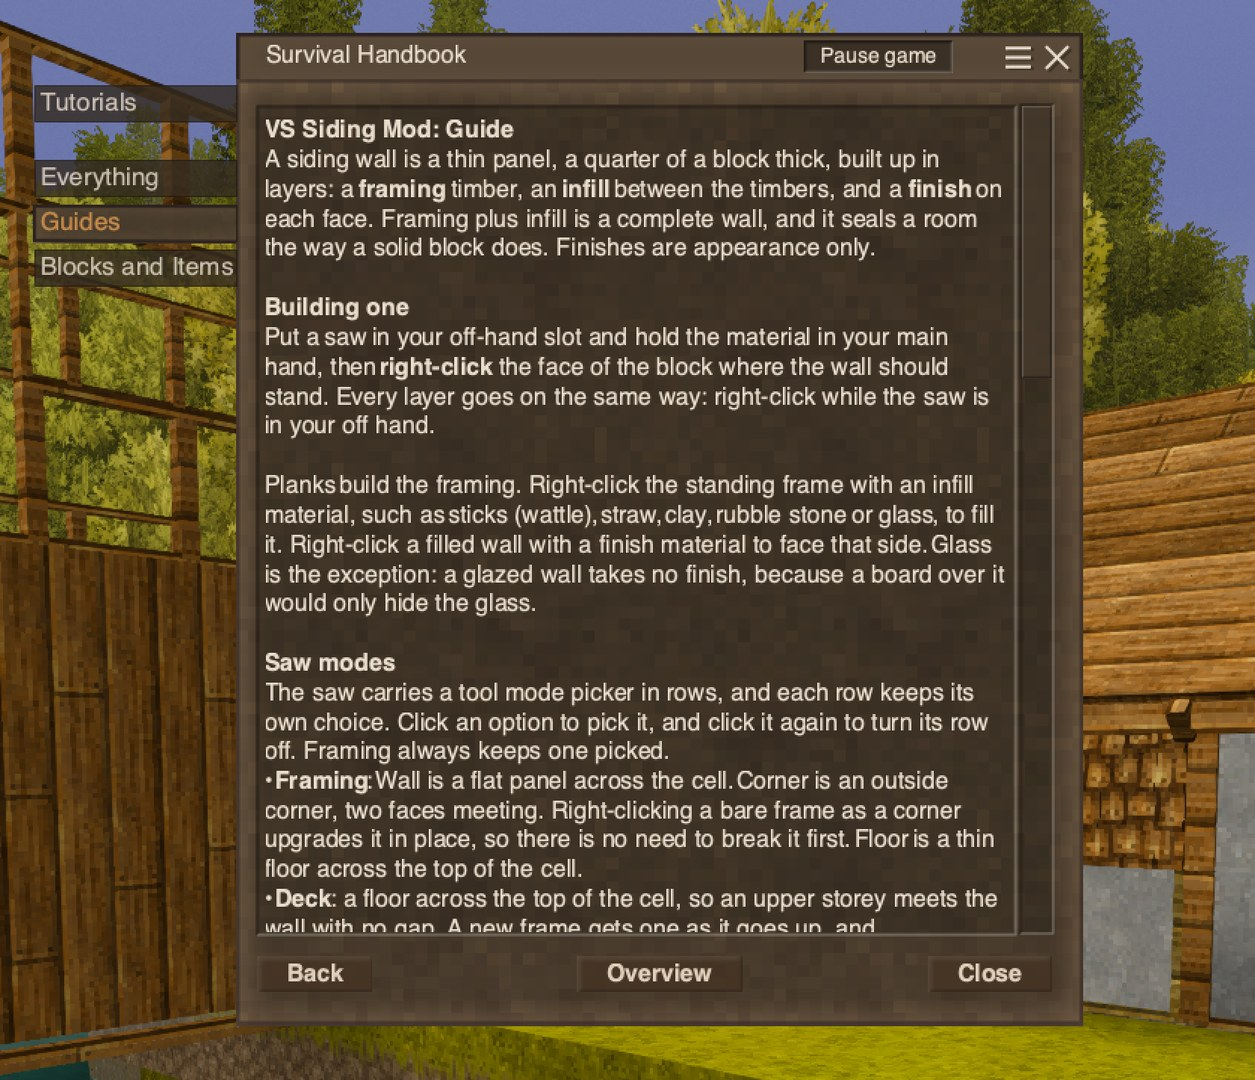
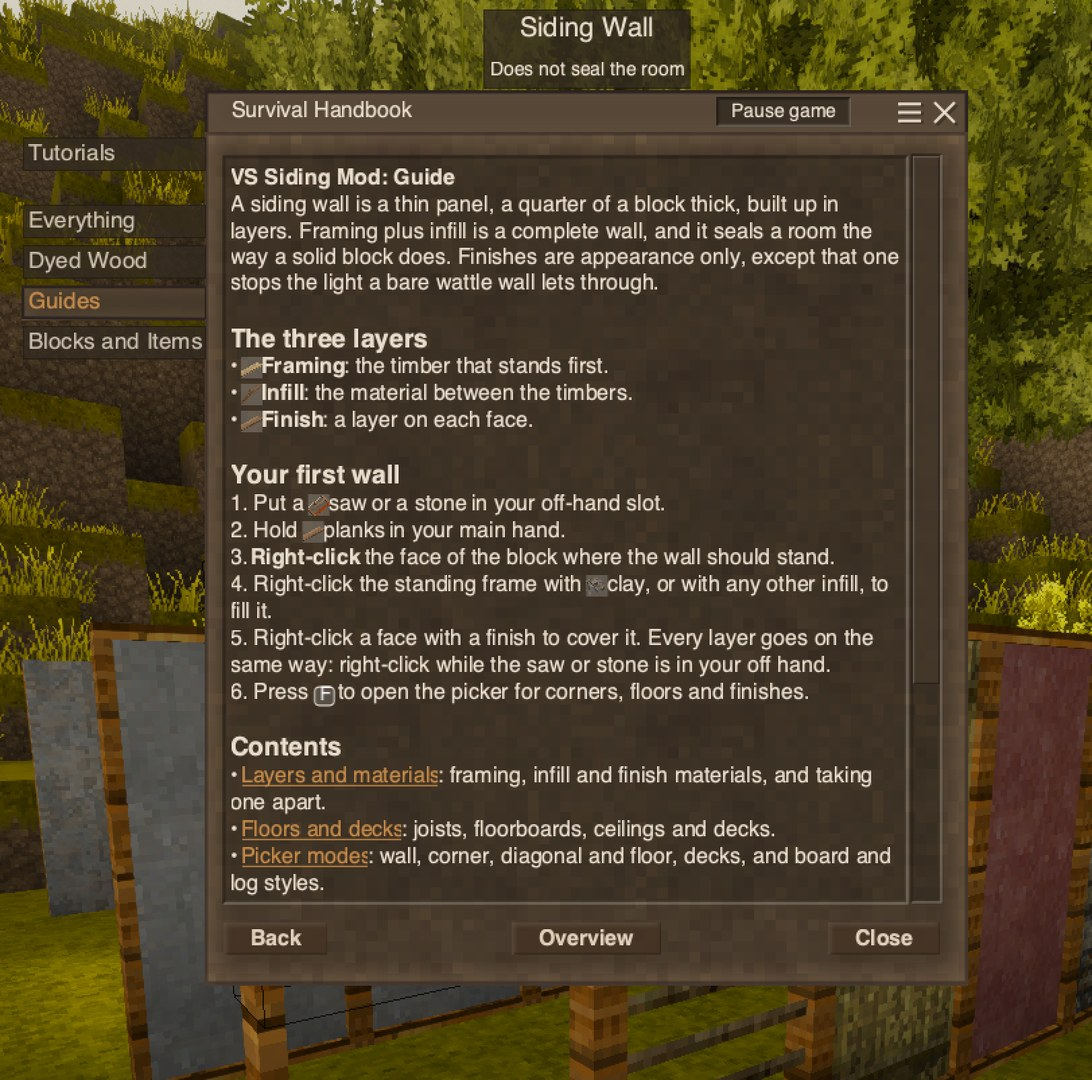
Release 1.4.0 (#122)

diff --git a/docs/moddb.html b/docs/moddb.html
@@ -8,7 +8,7 @@
         <div style="font-family: Impact, Haettenschweiler, 'Arial Narrow Bold', sans-serif; font-size: 44px; line-height: 1; letter-spacing: 2px; text-transform: uppercase;">VS Siding</div>
         <div style="font-family: Impact, Haettenschweiler, 'Arial Narrow Bold', sans-serif; font-size: 18px; letter-spacing: 3px; text-transform: uppercase; color: #5a3b17; margin-top: 6px;">Thin walls and floors, built in layers</div>
       </div>
-      <div style="background: #1d1b17; color: #f3c300; font-weight: bold; font-size: 13px; letter-spacing: 1px; padding: 8px 12px; line-height: 1.5; text-align: center;">SITE NOTICE<br><span style="color: #e9e4d8; font-weight: normal;">v1.3.0: floors are in</span><div style="margin-top: 6px; border-top: 1px solid #f3c300; padding-top: 6px; font-size: 11px; color: #e9e4d8; font-weight: normal;">DAYS SINCE LAST RELEASE: <span style="color: #f3c300; font-weight: bold; font-size: 16px;">0</span></div></div>
+      <div style="background: #1d1b17; color: #f3c300; font-weight: bold; font-size: 13px; letter-spacing: 1px; padding: 8px 12px; line-height: 1.5; text-align: center;">SITE NOTICE<br><span style="color: #e9e4d8; font-weight: normal;">v1.4.0: sticks and bones</span><div style="margin-top: 6px; border-top: 1px solid #f3c300; padding-top: 6px; font-size: 11px; color: #e9e4d8; font-weight: normal;">DAYS SINCE LAST RELEASE: <span style="color: #f3c300; font-weight: bold; font-size: 16px;">0</span></div></div>
     </div>
   </div>
 
@@ -34,7 +34,29 @@
   <div style="padding: 0 20px 22px; display: flex; flex-direction: column; gap: 10px;">
 
     <details open style="border: 3px solid #1d1b17; background: #f6f1e4;">
-      <summary style="cursor: pointer; background: #f3c300; padding: 11px 14px; font-family: Impact, Haettenschweiler, 'Arial Narrow Bold', sans-serif; font-size: 20px; letter-spacing: 2px; text-transform: uppercase;">Floors <span style="font-family: Verdana, Geneva, sans-serif; font-size: 11px; letter-spacing: 1px; background: #1d1b17; color: #f3c300; padding: 2px 6px; vertical-align: middle;">NEW</span></summary>
+      <summary style="cursor: pointer; background: #f3c300; padding: 11px 14px; font-family: Impact, Haettenschweiler, 'Arial Narrow Bold', sans-serif; font-size: 20px; letter-spacing: 2px; text-transform: uppercase;">Primitive builds <span style="font-family: Verdana, Geneva, sans-serif; font-size: 11px; letter-spacing: 1px; background: #1d1b17; color: #f3c300; padding: 2px 6px; vertical-align: middle;">NEW</span></summary>
+      <div style="padding: 14px; font-size: 14px; line-height: 1.6;">
+        <p style="margin: 0;">No saw yet? A stone in your off hand works from the first day, and it is never used up. Sticks build a frame, and so do bones. Both are drawn as lashed poles, floors and decks included.</p>
+        <ul style="margin: 10px 0 0; padding-left: 20px;">
+          <li>Sticks are also the wattle infill, so sneak to stack or extend a bare stick frame.</li>
+          <li>Fill a frame with pelt or cloth for a tent, or with packed earth or rammed earth for something that keeps a cellar cool.</li>
+          <li>A bone frame does not burn. The pelt on it still does.</li>
+        </ul>
+        <div style="display: flex; flex-wrap: wrap; gap: 12px; margin-top: 12px;">
+          <div style="flex: 1 1 260px; min-width: 0; background: #ffffff; padding: 8px 8px 28px; box-shadow: 0 3px 10px rgba(0,0,0,.2); position: relative;">
+            <img src="https://raw.githubusercontent.com/Graphight/VS-Siding/main/docs/screenshots/PrimitiveSiding.jpg" alt="A stick frame with cloth infill and a bone frame with pelt infill, each on pole joists" style="display: block; width: 100%; height: auto;">
+            <div style="position: absolute; bottom: 7px; left: 10px; font-size: 12px; color: #5a3b17;">Stick and bone frames</div>
+          </div>
+          <div style="flex: 1 1 260px; min-width: 0; background: #ffffff; padding: 8px 8px 28px; box-shadow: 0 3px 10px rgba(0,0,0,.2); position: relative;">
+            <img src="https://raw.githubusercontent.com/Graphight/VS-Siding/main/docs/screenshots/PrimitiveTent.jpg" alt="Inside a tent of bone frames filled with pelt, lit by torches on the walls" style="display: block; width: 100%; height: auto;">
+            <div style="position: absolute; bottom: 7px; left: 10px; font-size: 12px; color: #5a3b17;">A bone and pelt tent</div>
+          </div>
+        </div>
+      </div>
+    </details>
+
+    <details style="border: 3px solid #1d1b17; background: #f6f1e4;">
+      <summary style="cursor: pointer; background: #f3c300; padding: 11px 14px; font-family: Impact, Haettenschweiler, 'Arial Narrow Bold', sans-serif; font-size: 20px; letter-spacing: 2px; text-transform: uppercase;">Floors</summary>
       <div style="padding: 14px; font-size: 14px; line-height: 1.6;">
         <p style="margin: 0;">Pick <b>Floor</b> in the saw menu and right-click the side of a block, a deck or another floor with boards to lay joists. Right-click the top of a floor with boards to carry it on up to four blocks, which is how you get a floor out over water (sneak if you want floorboards on it instead).</p>
         <ul style="margin: 10px 0 0; padding-left: 20px;">
@@ -65,7 +87,7 @@
           <div style="flex: 1 1 160px; border: 2px solid #1d1b17; background: #ffffff; padding: 10px;"><div style="font-weight: bold; font-size: 11px; letter-spacing: 2px; color: #7a5428;">STEP 2</div>Right-click the face of a block with boards to place a frame.</div>
           <div style="flex: 1 1 160px; border: 2px solid #1d1b17; background: #ffffff; padding: 10px;"><div style="font-weight: bold; font-size: 11px; letter-spacing: 2px; color: #7a5428;">STEP 3</div>Right-click the frame with an infill, then each side with a finish.</div>
         </div>
-        <p style="margin: 12px 0 0;">Each side takes its own finish (corners too). Click a finished side again and the finish goes on the side behind it, so a wall against the ground can be finished from inside. Breaking a wall takes off one layer at a time, outermost first, and gives the material back.</p>
+        <p style="margin: 12px 0 0;">Each side takes its own finish (corners too). Click a finished side again and the finish goes on the side behind it, so a wall against the ground can be finished from inside. A glass wall takes a finish like any other, drawn as a border round the glass. Breaking a wall takes off one layer at a time, outermost first, and gives the material back.</p>
         <p style="margin: 10px 0 0;">Right-click a standing wall with a stair to fill its open side beside a staircase. The step takes the stair's material and turns to match the stair next to it. A cell takes a deck or a step, not both.</p>
         <p style="margin: 10px 0 0; font-size: 12px; color: #6b5a44;">No guards were removed from any saws in the making of this mod.</p>
         <div style="margin-top: 12px; background: #ffffff; padding: 8px 8px 28px; box-shadow: 0 3px 10px rgba(0,0,0,.2); position: relative;">
@@ -161,7 +183,7 @@
     <details style="border: 3px solid #1d1b17; background: #f6f1e4;">
       <summary style="cursor: pointer; background: #f3c300; padding: 11px 14px; font-family: Impact, Haettenschweiler, 'Arial Narrow Bold', sans-serif; font-size: 20px; letter-spacing: 2px; text-transform: uppercase;">Furniture</summary>
       <div style="padding: 14px; font-size: 14px; line-height: 1.6;">
-        <p style="margin: 0;">A wall only fills part of its block (like 1/4), so chests, pots, torches, signs, trunks, and beds can be placed against it. The wall stays behind them and keeps sealing the room, and torches and lanterns placed against a wall light the room properly. A bed can go head-first against a wall, or laid along a straight wall (they will overhang the block next to them a little but this was nicer than phasing them into the wall). To change the wall's layers, break the furniture first.</p>
+        <p style="margin: 0;">A wall only fills part of its block (like 1/4), so chests, pots, torches, lanterns, signs, trunks, and beds can be placed against it. The wall stays behind them and keeps sealing the room, and torches and lanterns placed against a wall light the room properly. A bed can go head-first against a wall, or laid along a straight wall (they will overhang the block next to them a little but this was nicer than phasing them into the wall). To change the wall's layers, break the furniture first.</p>
         <div style="margin-top: 12px; background: #ffffff; padding: 8px 8px 28px; box-shadow: 0 3px 10px rgba(0,0,0,.2); position: relative;">
           <img src="https://raw.githubusercontent.com/Graphight/VS-Siding/main/docs/screenshots/InteriorPartition.jpg" alt="Inside a siding house with a chest and a cabinet sharing the walls" style="display: block; width: 100%; height: auto;">
           <div style="position: absolute; bottom: 7px; left: 10px; font-size: 12px; color: #5a3b17;">Furniture sharing the walls</div>

diff --git a/README.md b/README.md
@@ -51,6 +51,11 @@ The finishes:
 ![finishes-3D-texture](docs/screenshots/Finishings3DTexture.jpg)
 ![finishes-corner](docs/screenshots/FinishingsCorner.jpg)
 
+Stick and bone frames, and a bone and pelt tent:
+
+![primitive-siding](docs/screenshots/PrimitiveSiding.jpg)
+![primitive-tent](docs/screenshots/PrimitiveTent.jpg)
+
 Floors, from above and below:
 
 ![floors-above](docs/screenshots/FloorsAbove.jpg)
